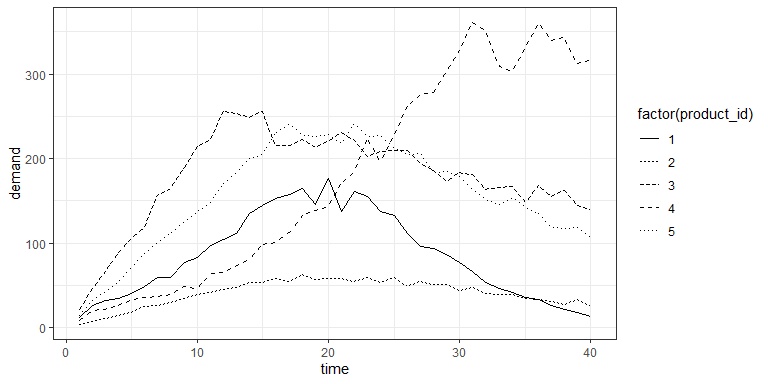
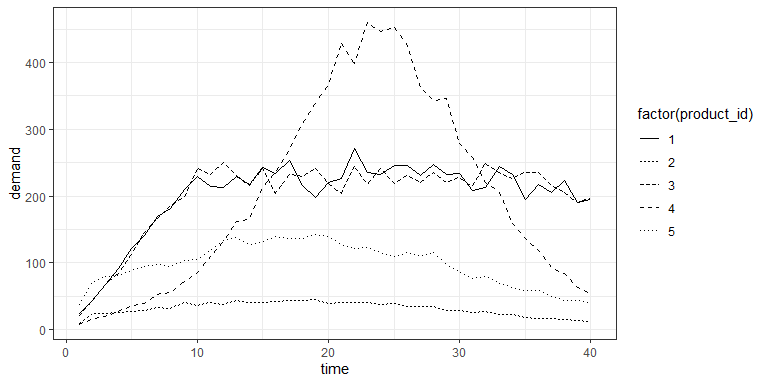
Update the README

diff --git a/README.md b/README.md
@@ -45,17 +45,17 @@ str(npd_data1)
 #> 'data.frame':    8000 obs. of  13 variables:
 #>  $ product_id : int  1 1 1 1 1 1 1 1 1 1 ...
 #>  $ time       : num  1 2 3 4 5 6 7 8 9 10 ...
-#>  $ demand     : num  12 26 32 34 41 49 59 59 77 83 ...
-#>  $ attribute1 : num  0.439 0.439 0.439 0.439 0.439 ...
-#>  $ attribute2 : num  0.255 0.255 0.255 0.255 0.255 ...
-#>  $ attribute8 : num  0.0515 0.0515 0.0515 0.0515 0.0515 ...
-#>  $ attribute6 : num  0.822 0.822 0.822 0.822 0.822 ...
-#>  $ attribute5 : num  -0.0239 -0.0239 -0.0239 -0.0239 -0.0239 ...
-#>  $ attribute10: num  0.188 0.188 0.188 0.188 0.188 ...
-#>  $ attribute9 : num  0.635 0.635 0.635 0.635 0.635 ...
-#>  $ attribute3 : num  0.304 0.304 0.304 0.304 0.304 ...
-#>  $ attribute4 : num  0.903 0.903 0.903 0.903 0.903 ...
-#>  $ attribute7 : num  0.59 0.59 0.59 0.59 0.59 ...
+#>  $ demand     : num  24 43 68 91 122 141 170 182 210 230 ...
+#>  $ attribute1 : num  0.535 0.535 0.535 0.535 0.535 ...
+#>  $ attribute10: num  0.153 0.153 0.153 0.153 0.153 ...
+#>  $ attribute7 : num  0.711 0.711 0.711 0.711 0.711 ...
+#>  $ attribute5 : num  0.022 0.022 0.022 0.022 0.022 ...
+#>  $ attribute8 : num  0.376 0.376 0.376 0.376 0.376 ...
+#>  $ attribute4 : num  0.0314 0.0314 0.0314 0.0314 0.0314 ...
+#>  $ attribute3 : num  0.0893 0.0893 0.0893 0.0893 0.0893 ...
+#>  $ attribute9 : num  0.913 0.913 0.913 0.913 0.913 ...
+#>  $ attribute2 : num  0.218 0.218 0.218 0.218 0.218 ...
+#>  $ attribute6 : num  0.984 0.984 0.984 0.984 0.984 ...
 ```
 
 The demand for the products with product_id=1,2,…,5 is shown below:
